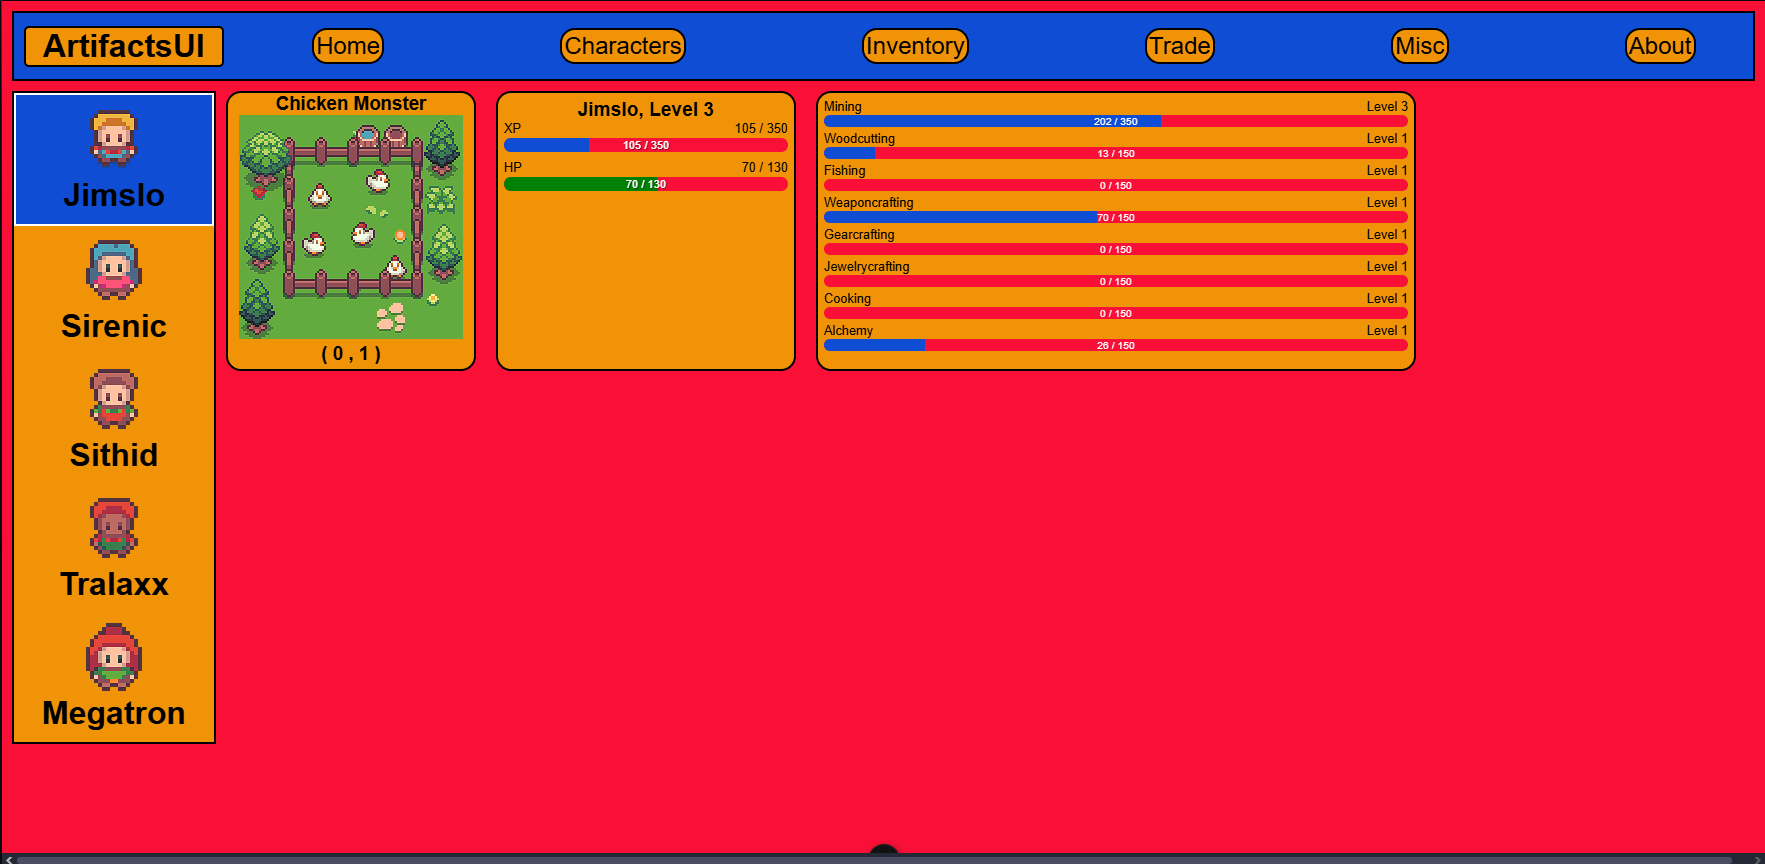
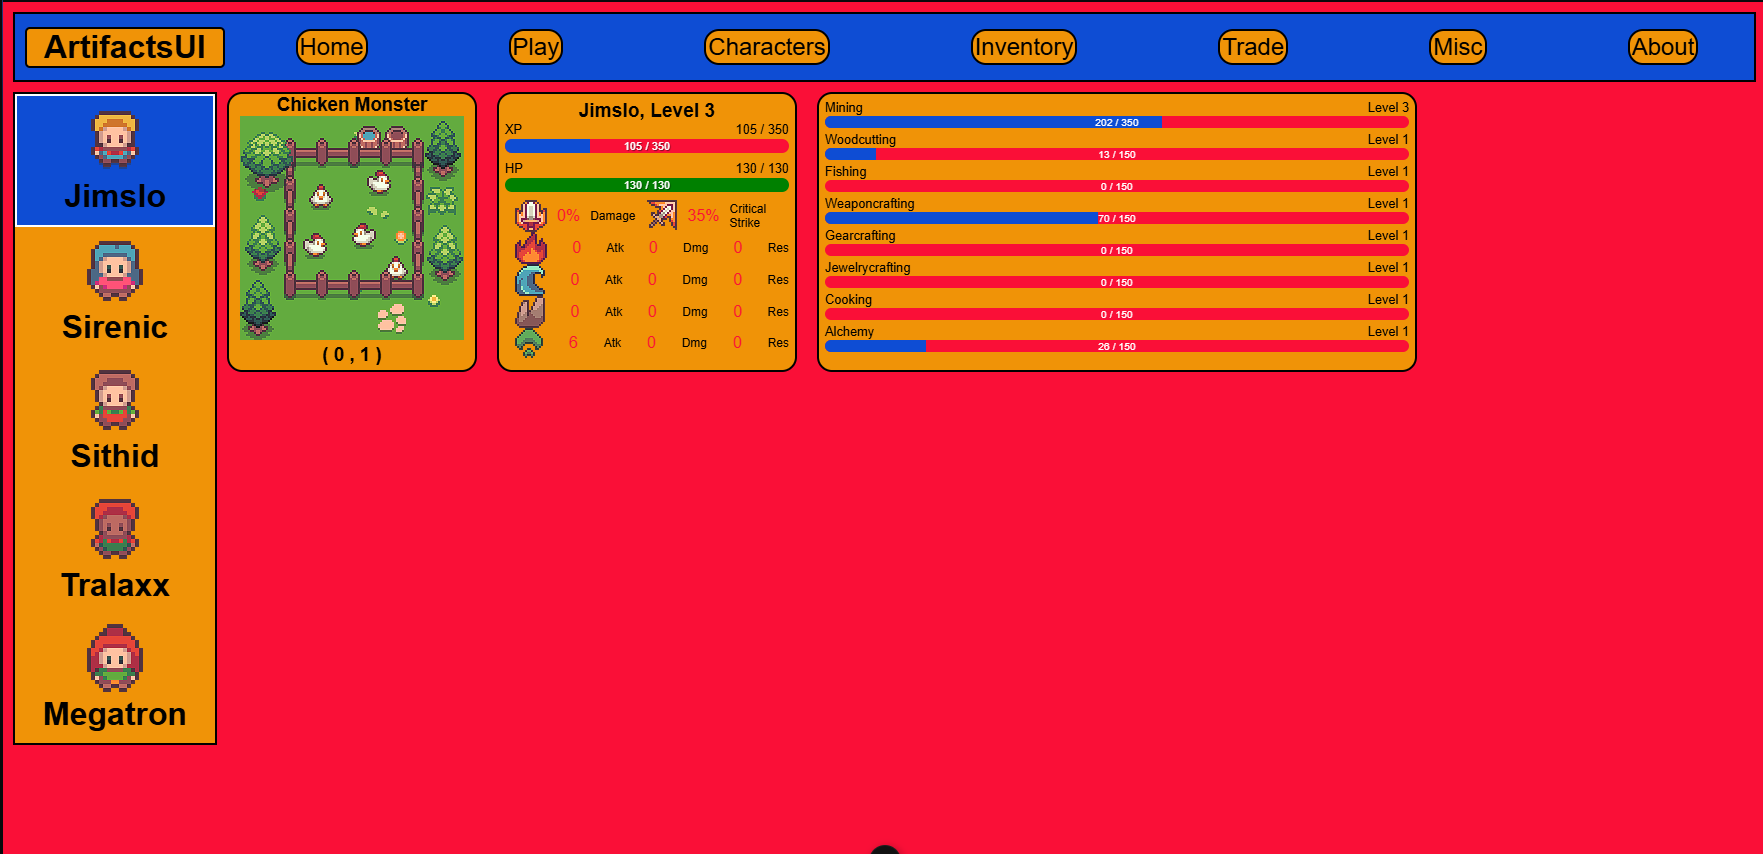
Additional Views, DamageStatPanel
Damage stats display panel done.  Tweaks to UI.  Additional views added to nav menu.

diff --git a/client/src/components/effects/DamageStatPanel.vue b/client/src/components/effects/DamageStatPanel.vue
@@ -1,0 +1,105 @@
+<template>
+  <div class="stat-container">
+    <div class="damage-panel">
+      <img alt="dmg icon" src="https://www.artifactsmmo.com/images/effects/dmg.png"/>
+      <span class="value">{{ character.dmg }}%</span><span class="label">Damage</span>
+      <img alt="crit icon" src="https://www.artifactsmmo.com/images/effects/critical_strike.png"/>
+      <span class="value">{{ character.critical_strike }}%</span><span class="label">Critical Strike</span>
+    </div>
+    <div class="damage-panel">
+      <img alt="fire icon" src="https://www.artifactsmmo.com/images/effects/dmg_fire.png"/>
+      <span class="value">{{ character.attack_fire }}</span><span class="label">Atk</span>
+      <span class="value">{{ character.dmg_fire }}</span><span class="label">Dmg</span>
+      <span class="value">{{ character.res_fire }}</span><span class="label">Res</span>
+    </div>
+    <div class="damage-panel">
+      <img alt="water icon" src="https://www.artifactsmmo.com/images/effects/dmg_water.png"/>
+      <span class="value">{{ character.attack_water }}</span><span class="label">Atk</span>
+      <span class="value">{{ character.dmg_water }}</span><span class="label">Dmg</span>
+      <span class="value">{{ character.res_water }}</span><span class="label">Res</span>
+    </div>
+    <div class="damage-panel">
+      <img alt="earth icon" src="https://www.artifactsmmo.com/images/effects/dmg_earth.png"/>
+      <span class="value">{{ character.attack_earth }}</span><span class="label">Atk</span>
+      <span class="value">{{ character.dmg_earth }}</span><span class="label">Dmg</span>
+      <span class="value">{{ character.res_earth }}</span><span class="label">Res</span>
+    </div>
+    <div class="damage-panel">
+      <img alt="air icon" src="https://www.artifactsmmo.com/images/effects/dmg_air.png"/>
+      <span class="value">{{ character.attack_air }}</span><span class="label">Atk</span>
+      <span class="value">{{ character.dmg_air }}</span><span class="label">Dmg</span>
+      <span class="value">{{ character.res_air }}</span><span class="label">Res</span>
+    </div>
+  </div>
+</template>
+
+<script>
+export default {
+ props: {
+    character: {
+      type: Object,
+      default() {
+        return {
+          required: true,
+          name: "Empty",
+          skin: "men1",
+          x: 0,
+          y: 0,
+          level: 1,
+          max_level: 100,
+          hp: 100,
+          max_hp: 100,
+          dmg: 0,
+          critical_strike: 0,
+          attack_fire: 0,
+          attack_water: 0,
+          attack_earth: 0,
+          attack_air: 0,
+          dmg_fire: 0,
+          dmg_water: 0,
+          dmg_earth: 0,
+          dmg_air: 0,
+          res_fire: 0,
+          res_water: 0,
+          res_earth: 0,
+          res_air: 0
+        };
+      }
+    }
+  },
+  computed: {
+  }
+}
+</script>
+
+<style>
+.stat-container {
+  display: flex;
+  flex-direction: column;
+}
+
+.damage-panel {
+  display: flex;
+  flex-direction: row;
+  gap: 10px;
+  margin-left: 10px;
+  font-size: .75rem;
+  justify-content: space-between;
+}
+
+.label {
+  align-content: center;
+  color: var( --color-text-primary );
+  font-size: 0.75rem;
+}
+.value {
+  align-content: center;
+  color: var( --color-bg-primary );
+  font-size: 1rem;
+}
+
+.stat-container img {
+  max-width: 32px;
+  max-height: 32px;
+}
+</style>

diff --git a/client/src/router/index.js b/client/src/router/index.js
@@ -2,6 +2,9 @@ import { createRouter, createWebHistory } from "vue-router";
 import HomeView from "../views/HomeView.vue";
 import AboutView from "../views/AboutView.vue";
 import CharactersView from "@/views/CharactersView.vue";
+import InventoryView from "@/views/InventoryView.vue";
+import TradeView from "@/views/TradeView.vue";
+import MiscView from "@/views/MiscView.vue";
 
 const router = createRouter({
   history: createWebHistory(import.meta.env.BASE_URL),
@@ -15,6 +18,21 @@ const router = createRouter({
       path: "/characters",
       name: "characters",
       component: CharactersView,
+    },
+    {
+      path: "/inventory",
+      name: "inventory",
+      component: InventoryView,
+    },
+    {
+      path: "/trade",
+      name: "trade",
+      component: TradeView,
+    },
+    {
+      path: "/misc",
+      name: "misc",
+      component: MiscView,
     },
     {
       path: "/about",

diff --git a/client/src/App.vue b/client/src/App.vue
@@ -10,10 +10,11 @@ import { RouterLink, RouterView } from 'vue-router'
         <h1>ArtifactsUI</h1>
         <nav class="nav-menu">
           <RouterLink to="/">Home</RouterLink>
+          <RouterLink to="/">Play</RouterLink>
           <RouterLink to="/characters">Characters</RouterLink>
-          <RouterLink to="/">Inventory</RouterLink>
-          <RouterLink to="/">Trade</RouterLink>
-          <RouterLink to="/">Misc</RouterLink>
+          <RouterLink to="/inventory">Inventory</RouterLink>
+          <RouterLink to="/trade">Trade</RouterLink>
+          <RouterLink to="/misc">Misc</RouterLink>
           <RouterLink to="/about">About</RouterLink>
         </nav>
       </div>
@@ -60,7 +61,7 @@ h1 {
 
 .nav-menu a {
   color: var(--color-text-primary);
-  margin: 15px 5vw;
+  margin: 15px 4vw;
   text-decoration: none;
   border: 2px solid var(--color-text-primary);
   border-radius: 15px;

diff --git a/client/src/components/characters/CharacterStatPanel.vue b/client/src/components/characters/CharacterStatPanel.vue
@@ -13,15 +13,22 @@
       :max="character.max_hp"
       type="hp"
     ></character-progress-bar>
+    <div class="dmg-res-container">
+      <damage-stat-panel 
+        :character="character"
+      ></damage-stat-panel>
+    </div>
   </div>
 </template>
 
 <script>
 import CharacterProgressBar from '@/components/characters/CharacterProgressBar.vue';
+import DamageStatPanel from '../effects/DamageStatPanel.vue';
 
 export default {
   components: {
-    CharacterProgressBar
+    CharacterProgressBar,
+    DamageStatPanel
   },
   props: {
     character: {
@@ -59,5 +66,9 @@ export default {
 .character-name {
   color: var(--color-text-primary);
   font-size: 1.2rem;
+}
+
+.dmg-res-container {
+
 }
 </style>

diff --git a/client/src/views/InventoryView.vue b/client/src/views/InventoryView.vue
@@ -1,6 +1,6 @@
 <template>
-  <div class="about">
-    <h1>About</h1>
+  <div class="inventory">
+    <h1>Inventory</h1>
   </div>
 </template>
 
@@ -9,7 +9,7 @@
   box-sizing: border-box;
 }
 
-.about {
+.inventory {
   background-color: var( --color-bg-primary);
   color: var(--color-text-primary);
   margin-top: 10px;

diff --git a/client/src/views/TradeView.vue b/client/src/views/TradeView.vue
@@ -1,6 +1,6 @@
 <template>
-  <div class="about">
-    <h1>About</h1>
+  <div class="trade">
+    <h1>Trade</h1>
   </div>
 </template>
 
@@ -9,7 +9,7 @@
   box-sizing: border-box;
 }
 
-.about {
+.trade {
   background-color: var( --color-bg-primary);
   color: var(--color-text-primary);
   margin-top: 10px;

diff --git a/client/src/views/MiscView.vue b/client/src/views/MiscView.vue
@@ -1,6 +1,6 @@
 <template>
-  <div class="about">
-    <h1>About</h1>
+  <div class="misc">
+    <h1>Misc</h1>
   </div>
 </template>
 
@@ -9,7 +9,7 @@
   box-sizing: border-box;
 }
 
-.about {
+.misc {
   background-color: var( --color-bg-primary);
   color: var(--color-text-primary);
   margin-top: 10px;

diff --git a/client/src/views/HomeView.vue b/client/src/views/HomeView.vue
@@ -16,7 +16,6 @@
 .home {
   background-color: var( --color-bg-primary);
   color: var(--color-text-primary);
-  border: 2px solid var(--color-text-primary);
   margin-top: 10px;
   height: 100vh;
 }
